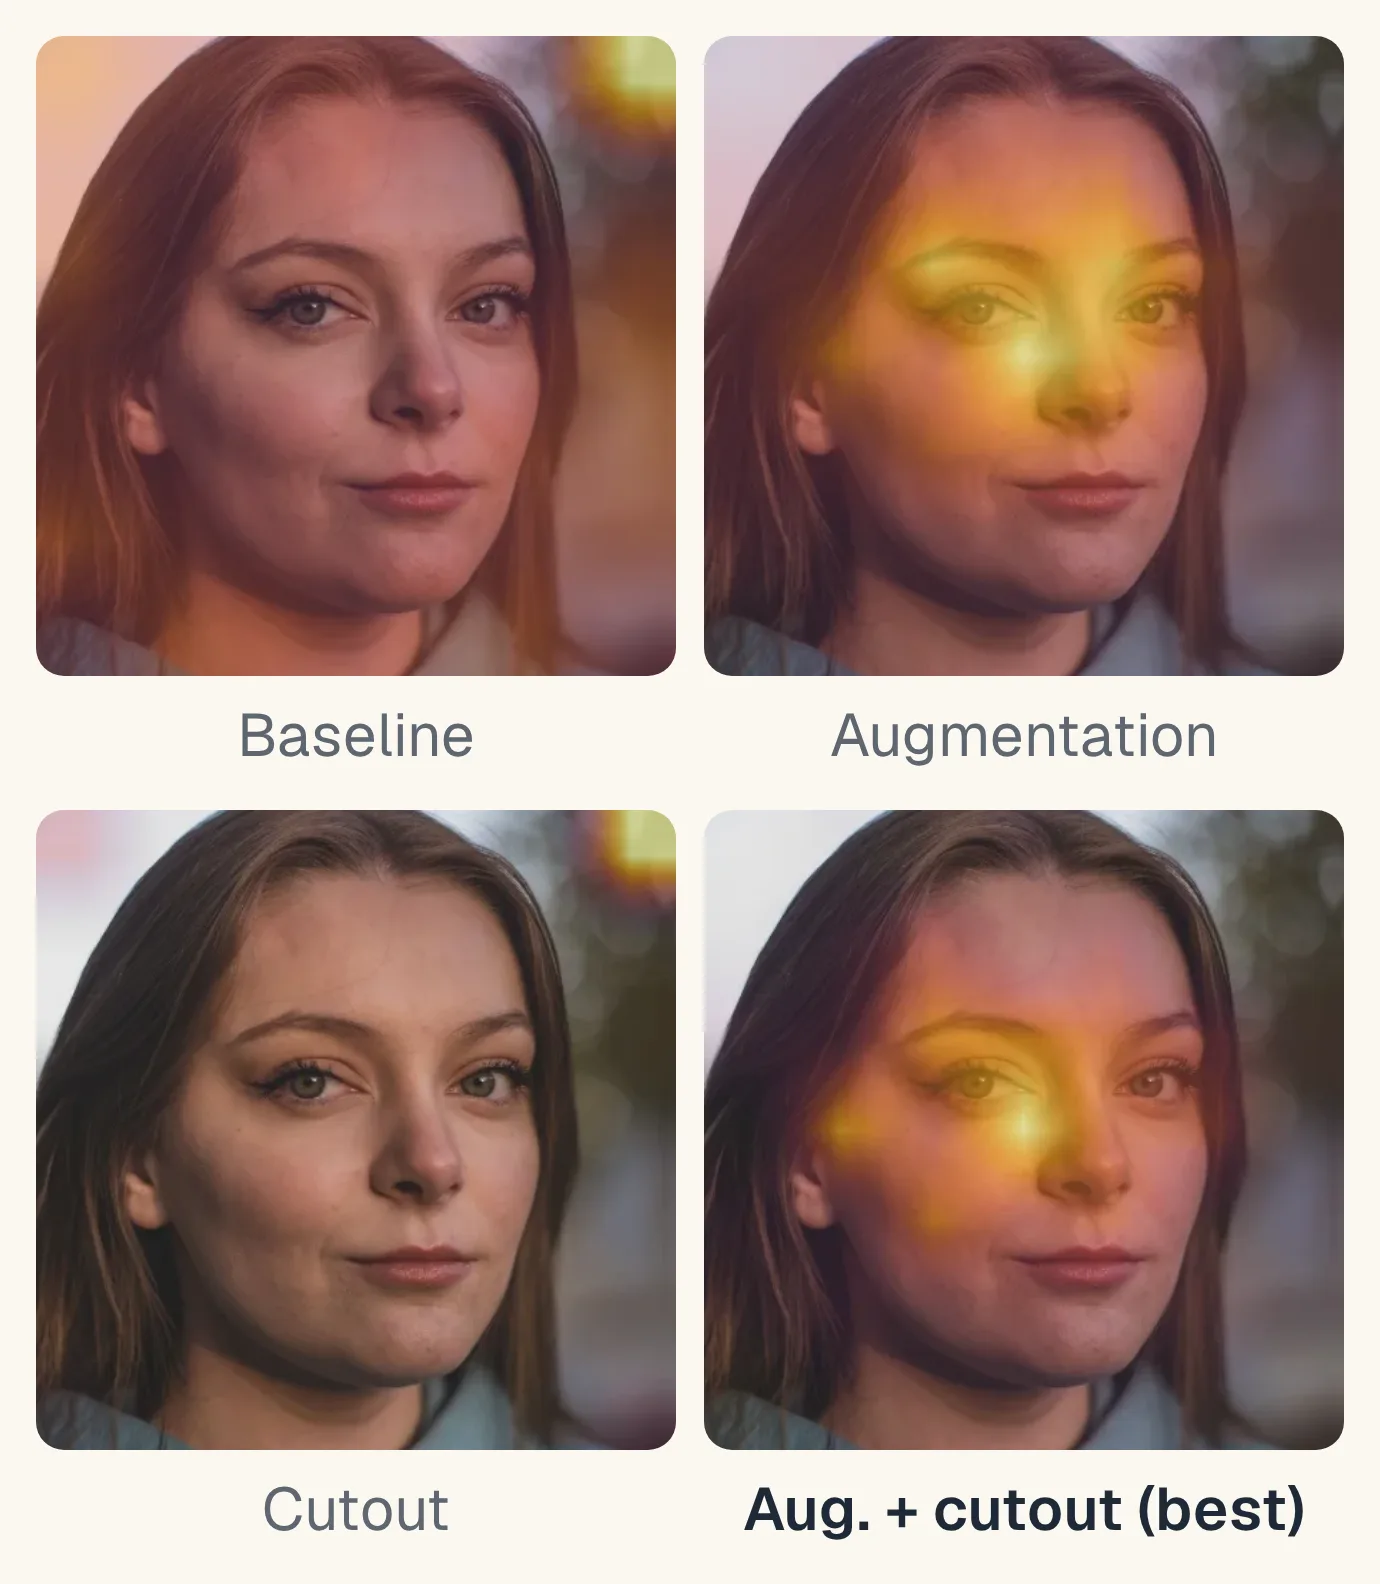
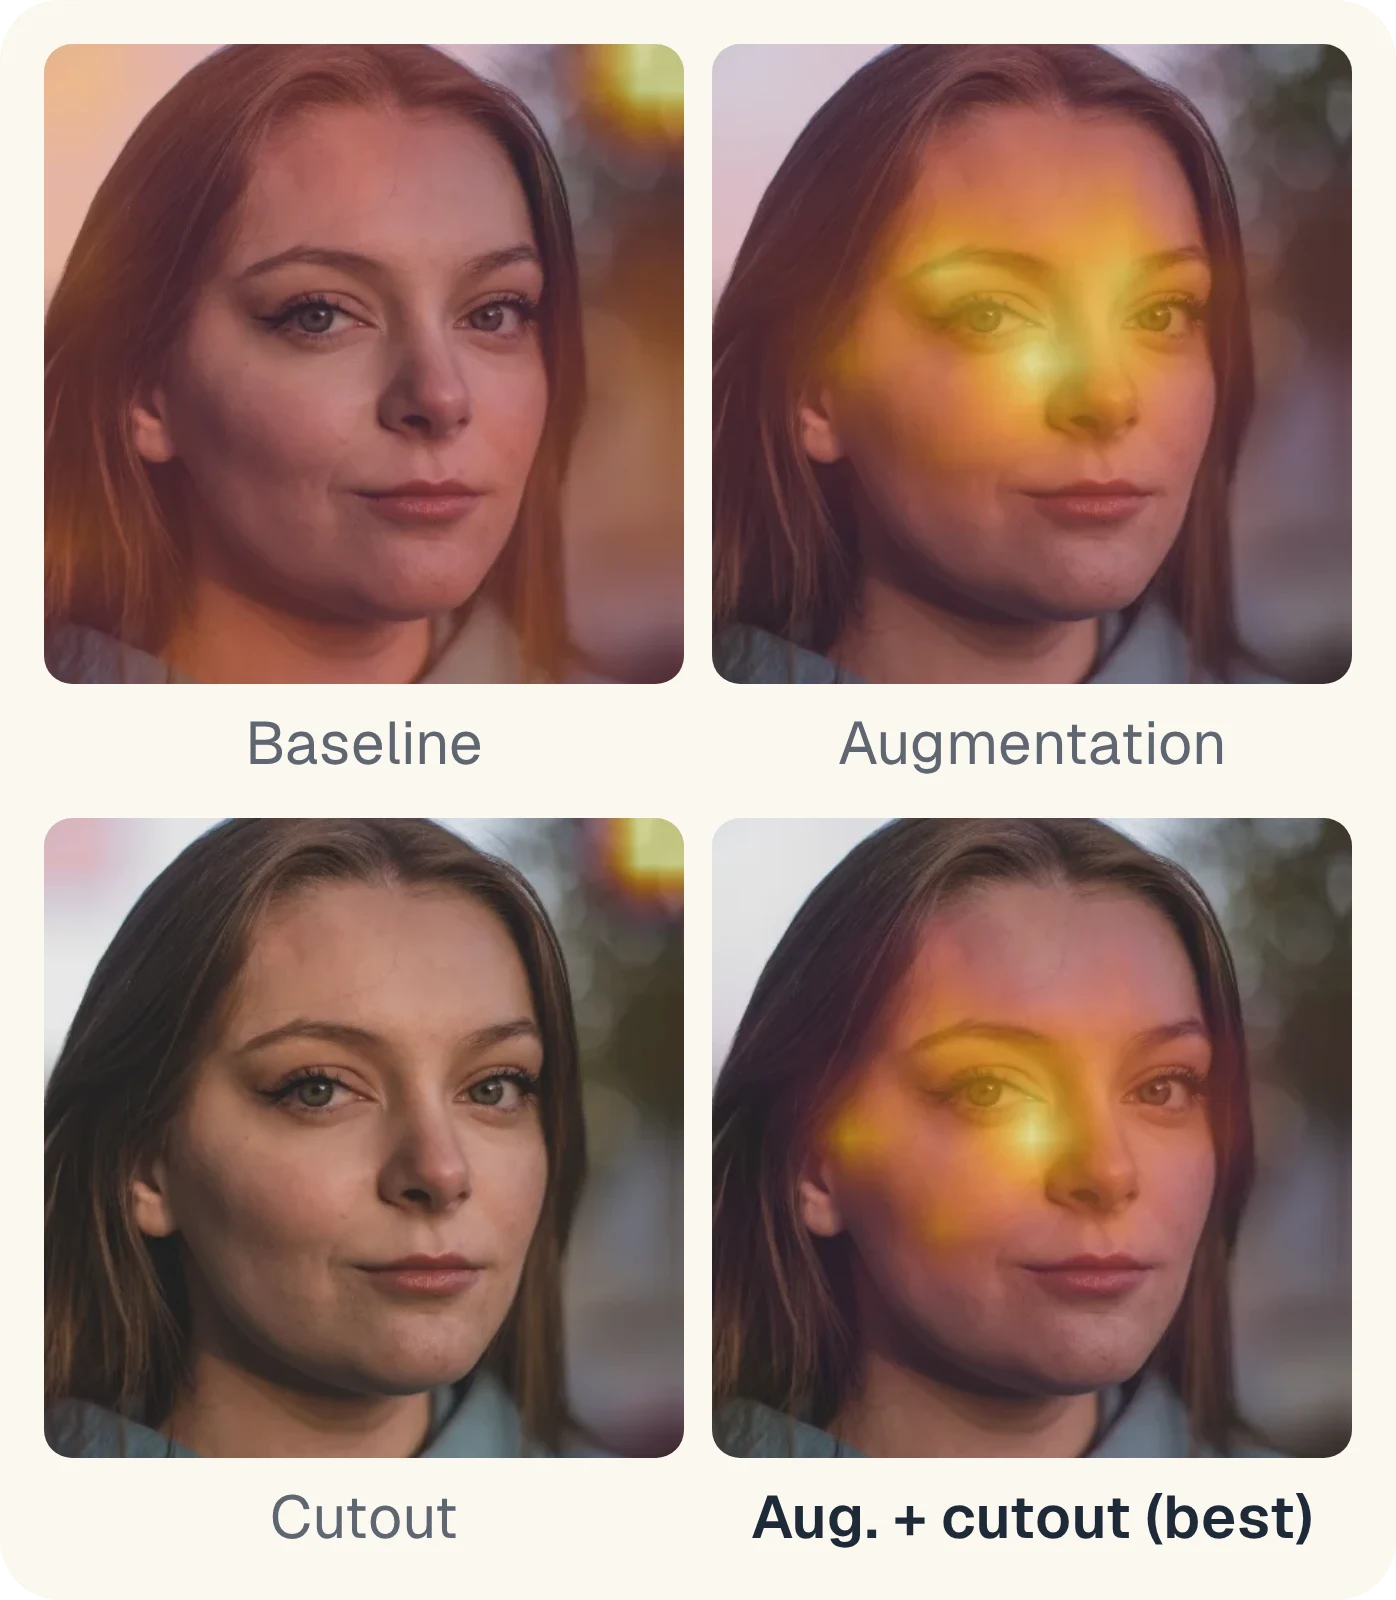
Rounded figure cards with transparent corners; link the games

diff --git a/README.md b/README.md
@@ -2,7 +2,7 @@
 
 **Where does a deepfake detector look?** This project studies how training-time preprocessing shapes an EfficientNet-B4 deepfake detector: its accuracy, its calibration, and the facial regions its decisions rely on, measured with Grad-CAM.
 
-[Project page](https://xdfdet.mertkayacs.com) ([Türkçe](https://xdfdet.mertkayacs.com/tr/), [Deutsch](https://xdfdet.mertkayacs.com/de/)) · [Models on Hugging Face](https://huggingface.co/mertkayacs/xdfdet) · [Kaggle](https://www.kaggle.com/models/mertilovski/xdfdet) · [Thesis](https://doi.org/10.5281/zenodo.18998566)
+[Project page](https://xdfdet.mertkayacs.com) ([Türkçe](https://xdfdet.mertkayacs.com/tr/), [Deutsch](https://xdfdet.mertkayacs.com/de/)) · [Models on Hugging Face](https://huggingface.co/mertkayacs/xdfdet) · [Kaggle](https://www.kaggle.com/models/mertilovski/xdfdet) · [Thesis](https://doi.org/10.5281/zenodo.18998566) · Games: [Real or AI?](https://xdfdet.mertkayacs.com/game/), [Estimate](https://xdfdet.mertkayacs.com/estimate/)
 
 <img width="520" src="docs/figures/strip-gradcam.webp" alt="Grad-CAM of four setups on the same real portrait">
 
